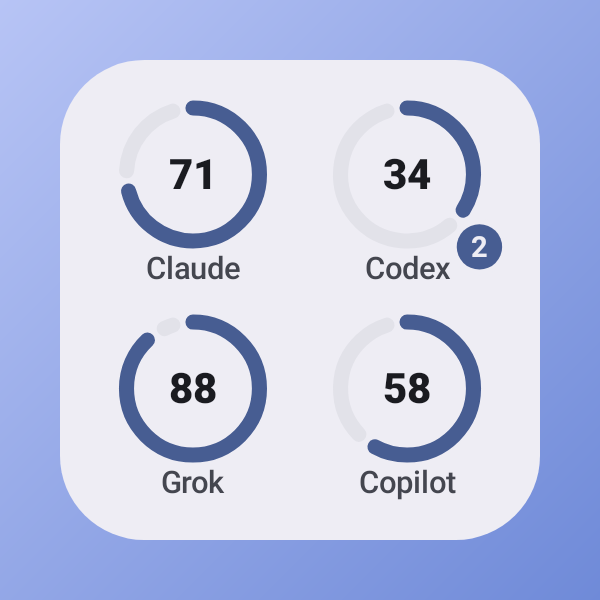
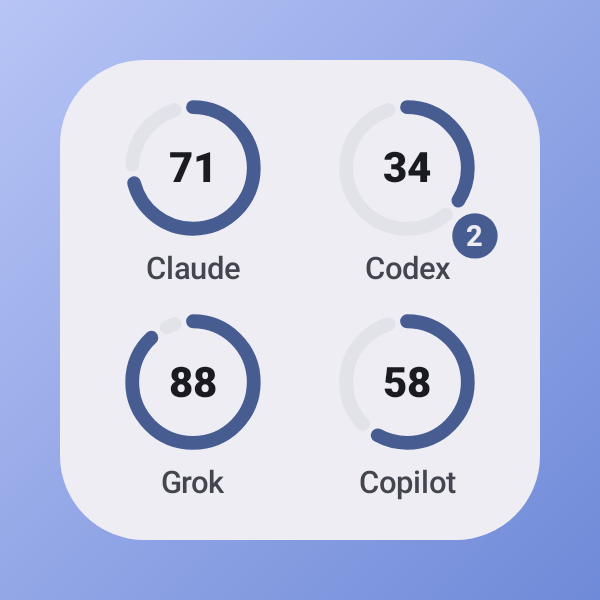
Put the lock screen number in the ring, and the sign-in badge on small shapes
Only the account name goes under a ring, in every layout. The lock screen
rings now carry their number inside, where the logo was, and are a little
bigger now that the percentage line under them is gone. The small shapes of
the Shape grid show the same red "!" badge as the rings when the sign-in
expired, in place of their number, instead of a "Sign in" line. The names
under the ring grid and lock screen rings have a small gap above them.

diff --git a/widget/src/test/kotlin/dev/sebastiano/headroom/widget/render/WidgetRendererTest.kt b/widget/src/test/kotlin/dev/sebastiano/headroom/widget/render/WidgetRendererTest.kt
@@ -288,19 +288,27 @@ class WidgetRendererTest {
     }
 
     @Test
-    fun `lock screen uses the compact rings with a reset footer`() = runTest {
-        val doc =
-            capture(
-                WidgetConfig(WidgetStyle.Bars),
-                WidgetSize(300f, 120f),
-                WidgetHostCategory.Keyguard,
-            )
+    fun `lock screen uses compact rings with the number inside, the name below and a reset footer`() =
+        runTest {
+            val doc =
+                capture(
+                    WidgetConfig(WidgetStyle.Bars),
+                    WidgetSize(300f, 120f),
+                    WidgetHostCategory.Keyguard,
+                )
 
-        doc.assertText("71%", "34%", "88%", "Claude", "Codex", "Grok")
-        doc.assertText("Next weekly reset: Grok, Mon 03:28")
-        doc.assertNoText("Copilot")
-        doc.assertDrawsLogos(Provider.Claude, Provider.Codex, Provider.Grok)
-    }
+            listOf("71", "34", "88", "Claude", "Codex", "Grok").forEach {
+                assertTrue(doc.drawsText(it), "No \"$it\" on the lock screen")
+            }
+            doc.assertText("Next weekly reset: Grok, Mon 03:28")
+            doc.assertNoText("Copilot")
+            // Only the name goes under a ring: no percentage line, and no logo in the ring.
+            assertFalse(doc.drawsText("71%"))
+            val drawn = pathCommands(documentOperations(doc.bytes))
+            listOf(Provider.Claude, Provider.Codex, Provider.Grok).forEach {
+                assertFalse(logoCommands(it.logo.pathData) in drawn, "The $it logo is drawn")
+            }
+        }
 
     @Test
     fun `bars and rings show a counter on an account with resets it can use now`() = runTest {
@@ -377,12 +385,13 @@ class WidgetRendererTest {
         }
 
     @Test
-    fun `an expired account's small ring shows a centred badge, and only its name below`() =
+    fun `an expired account's small ring or shape shows a centred badge instead of a Sign in line`() =
         runTest {
             val expired = DemoData.accountsWithExpiredSignIn(now)
             listOf(
                     WidgetConfig(WidgetStyle.Rings) to (WidgetSize(160f, 160f) to HOME),
                     WidgetConfig(WidgetStyle.Rings) to (WidgetSize(300f, 120f) to LOCK),
+                    WidgetConfig(WidgetStyle.Shape) to (WidgetSize(160f, 160f) to HOME),
                 )
                 .forEach { (config, sizeAndHost) ->
                     val (size, host) = sizeAndHost
@@ -390,7 +399,13 @@ class WidgetRendererTest {
                     val doc = WidgetRenderer.capture(context, state, APP_WIDGET_ID, size, strings)
                     assertTrue(doc.drawsText("!"), "No sign-in badge in $config $host")
                     assertFalse(doc.drawsText("Sign in"), "A Sign in line in $config $host")
-                    assertTrue(doc.drawsText("Claude"), "No name under the ring in $config $host")
+                    // Small shapes carry the logo instead of a name.
+                    if (config.style == WidgetStyle.Rings) {
+                        assertTrue(
+                            doc.drawsText("Claude"),
+                            "No name under the ring in $config $host",
+                        )
+                    }
                     WidgetRenderer.remoteViews(doc).playAt(size)
                 }
         }

diff --git a/widget/src/main/kotlin/dev/sebastiano/headroom/widget/render/CountdownWidgets.kt b/widget/src/main/kotlin/dev/sebastiano/headroom/widget/render/CountdownWidgets.kt
@@ -102,9 +102,9 @@ internal fun CountdownWidget(
 }
 
 /**
- * The lock screen layout: a row of small rings with the provider logo inside, the percentage and
- * name below, and the next reset underneath. It is readable without unlocking and uses light marks
- * on a dark, translucent card whatever the style.
+ * The lock screen layout: a row of small rings with the number inside and the name below, and the
+ * next reset underneath. It is readable without unlocking and uses light marks on a dark,
+ * translucent card whatever the style.
  */
 @RemoteComposable
 @Composable
@@ -176,21 +176,22 @@ private fun LockScreenGauge(
                 }
                 if (gauge.stale) drawSignInBadge(signIn)
             }
-            // A stale ring shows a "!" badge in place of its logo: only the name goes under a ring.
+            // The number goes inside the ring, or a "!" badge when the sign-in expired: only the
+            // name goes under a ring.
             if (!gauge.stale) {
-                ProviderLogoIcon(gauge.provider, render.pxValue(LOCK_LOGO), colors.onSurface)
+                WidgetText(
+                    text = gauge.shownPercent.toString(),
+                    color = colors.onSurface,
+                    fontSize = render.sp(LOCK_NUMBER),
+                    fontWeight = FontWeight.ExtraBold,
+                )
             }
         }
-        WidgetText(
-            text = render.strings.percent(gauge.shownPercent),
-            color = colors.onSurface,
-            fontSize = render.sp(LOCK_NUMBER),
-            fontWeight = FontWeight.ExtraBold,
-        )
         WidgetText(
             gauge.name,
             colors.onSurfaceVariant,
             render.sp(LOCK_NAME),
+            modifier = RemoteModifier.padding(top = render.px(NAME_GAP)),
             fontWeight = FontWeight.Medium,
         )
     }
@@ -205,8 +206,7 @@ private const val LINE = 1.2f
 private const val DETAIL = 11f
 private const val LOCK_CORNER = 24f
 private const val LOCK_PADDING = 10f
-private const val LOCK_RING = 44f
-private const val LOCK_LOGO = 22f
+private const val LOCK_RING = 52f
 private const val LOCK_NUMBER = 15f
 private const val LOCK_NAME = 10f
 private const val LOCK_FOOTER = 11.5f

diff --git a/widget/src/main/kotlin/dev/sebastiano/headroom/widget/render/ShapeWidgets.kt b/widget/src/main/kotlin/dev/sebastiano/headroom/widget/render/ShapeWidgets.kt
@@ -97,14 +97,18 @@ private fun SmallShape(
             drawPolarShape(gauge.shape.polar, colors.shapeFill(gauge.provider).rc)
         }
         RemoteColumn(horizontalAlignment = RemoteAlignment.CenterHorizontally) {
-            WidgetText(
-                text = gauge.shownPercent.toString(),
-                color = colors.onShapeFill,
-                fontSize = render.sp(SMALL_NUMBER),
-                fontWeight = FontWeight.ExtraBold,
-            )
+            // A stale shape shows a "!" badge where its number would be, as the rings do.
+            if (gauge.stale) {
+                SignInBadge(render)
+            } else {
+                WidgetText(
+                    text = gauge.shownPercent.toString(),
+                    color = colors.onShapeFill,
+                    fontSize = render.sp(SMALL_NUMBER),
+                    fontWeight = FontWeight.ExtraBold,
+                )
+            }
             ProviderLogoIcon(gauge.provider, render.pxValue(SMALL_LOGO), colors.onShapeFill)
-            if (gauge.stale) SignInLabel(render, render.sp(SMALL_SIGN_IN))
         }
     }
 }
@@ -113,4 +117,3 @@ private const val LABEL = 10f
 private const val BIG = 28f
 private const val SMALL_NUMBER = 15f
 private const val SMALL_LOGO = 13f
-private const val SMALL_SIGN_IN = 9f

diff --git a/widget/src/main/kotlin/dev/sebastiano/headroom/widget/render/RingWidgets.kt b/widget/src/main/kotlin/dev/sebastiano/headroom/widget/render/RingWidgets.kt
@@ -282,8 +282,22 @@ private fun SmallRing(
             gauge.name,
             colors.onSurfaceVariant,
             render.sp(SMALL_NAME),
+            modifier = RemoteModifier.padding(top = render.px(NAME_GAP)),
             fontWeight = FontWeight.SemiBold,
         )
+    }
+}
+
+/**
+ * The "!" badge of a gauge whose sign-in expired, on its own, for a layout that is not a canvas.
+ */
+@RemoteComposable
+@Composable
+internal fun SignInBadge(render: RenderContext, modifier: RemoteModifier = RemoteModifier) {
+    val radius = render.pxValue(SIGN_IN_BADGE)
+    val style = render.signInBadgeStyle(radius, render.textPx(SIGN_IN_BADGE_TEXT))
+    RemoteBox(modifier.width((radius * 2f).rf).height((radius * 2f).rf)) {
+        RemoteCanvas(RemoteModifier.fillMaxSize()) { drawSignInBadge(style) }
     }
 }
 
@@ -308,6 +322,8 @@ private const val LABEL_LINE = 1.4f
 private const val HERO_COUNTER = 10f
 private const val HERO_COUNTER_TEXT = 12f
 private const val SMALL_COUNTER = 7f
+/** Space between a small ring and the name under it. */
+internal const val NAME_GAP = 4f
 internal const val SIGN_IN_BADGE = 9f
 internal const val SIGN_IN_BADGE_TEXT = 13f
 /** Space between the rows of the ring grid. */
